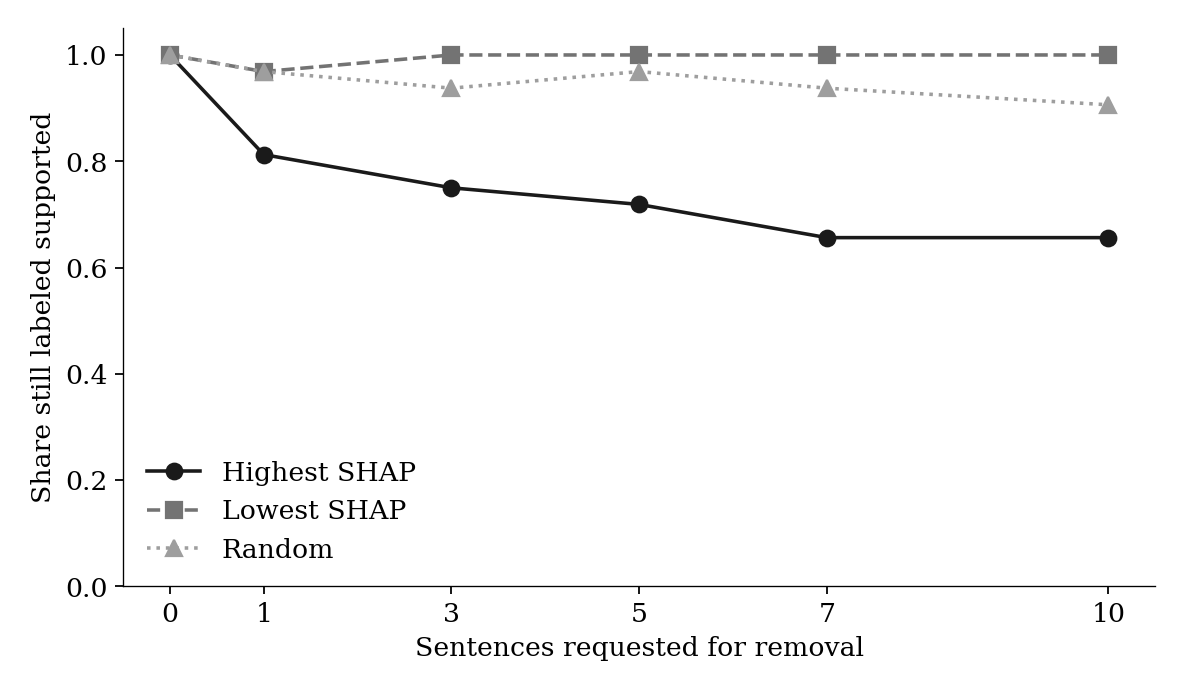
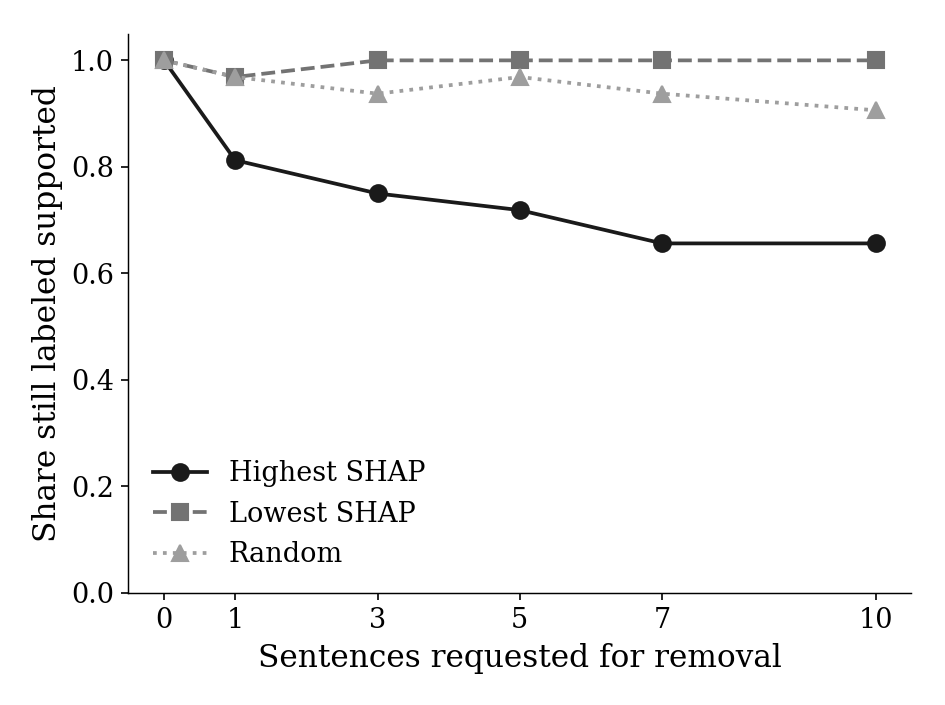
Place the two result curves side by side.
The removal and similarity figures share one row so the poster reads across.

Changed region(s): [[0.0307, 0.0605, 0.982, 0.9683], [0.6751, 0.3329, 0.9513, 0.3631]]

diff --git a/README.md b/README.md
@@ -38,17 +38,24 @@ Red raises the log probability of the token *supported*. Blue lowers it. The top
 
 The deletion above is the common case: 38 of the 40 retrieved spans can be removed and the temperature-0 label stays. The two that move are `c010`, from *not supported* to *supported*, and `c062`, from *supported* to *not supported*. Both had matched the human label before the deletion.
 
-The next figure stays with the 32 claims that are still *supported* after the span is gone. One of them, `c035`, has the human label *unclear*, so a *supported* prediction matches the human label on 31 of the 32. Each point is the share whose majority label, over five samples, is still *supported*.
+The two figures stay with the 32 claims that are still *supported* after the span is gone. One of them, `c035`, has the human label *unclear*, so a *supported* prediction matches the human label on 31 of the 32. On the left, each point is the share whose majority label, over five samples, is still *supported*. On the right, the same sentences are compared with the marked sentence. That axis starts at 0.78 so the small gap is visible.
 
-![Line chart of 32 claims. The share still labeled supported starts at 1. Removing the highest-SHAP sentences drops it to about 0.81 after one sentence and about 0.66 after ten. Removing lowest-SHAP or random sentences leaves the share between about 0.91 and 1.](figures/removal.png)
+<table>
+<tr>
+<td width="50%" valign="top">
+<img src="figures/removal.png" alt="Line chart of 32 claims. The share still labeled supported starts at 1. Removing the highest-SHAP sentences drops it to about 0.81 after one sentence and about 0.66 after ten. Removing lowest-SHAP or random sentences leaves the share between about 0.91 and 1.">
+</td>
+<td width="50%" valign="top">
+<img src="figures/similarity.png" alt="Cosine similarity to the evidence span. The axis runs from 0.78 to 0.92. The highest-SHAP set starts at 0.88 and falls toward 0.84. The lowest-SHAP and random sets stay near 0.82.">
+</td>
+</tr>
+</table>
 
 Removing the single highest sentence leaves 26 of the 32 labels *supported*. Removing the ten highest leaves 21. At that last step the highest set contains 9.44 sentences on average, because only sentences with a positive value are removed. Removing the same number of lowest-valued sentences leaves 31, then 32. Removing random sentences leaves 29 to 32. The label sits in a few sentences, and removing the same count of other sentences leaves it in place.
 
 ## Only slightly closer to the marked sentence
 
-Taken together, the high-valued sentences sit only slightly nearer the marked sentence than the other sentences from the same chunks. Every retrieved sentence is already close to the span: cosine similarity averages 0.826, and the least similar sentence in the pool is still at 0.689. The axis below starts at 0.78 so the small gap is visible.
-
-![Cosine similarity to the evidence span. The axis runs from 0.78 to 0.92. The highest-SHAP set starts at 0.88 and falls toward 0.84. The lowest-SHAP and random sets stay near 0.82.](figures/similarity.png)
+Taken together, the high-valued sentences sit only slightly nearer the marked sentence than the other sentences from the same chunks. Every retrieved sentence is already close to the span: cosine similarity averages 0.826, and the least similar sentence in the pool is still at 0.689.
 
 The single highest sentence averages 0.882, against 0.819 for one random sentence and 0.820 for the lowest sentence. It is closer than the random sentence in 27 of 32 claims. Once the set holds ten sentences, the mean gap is 0.014. Inside a claim, the rank correlation between the SHAP value and this similarity averages 0.193.
 
